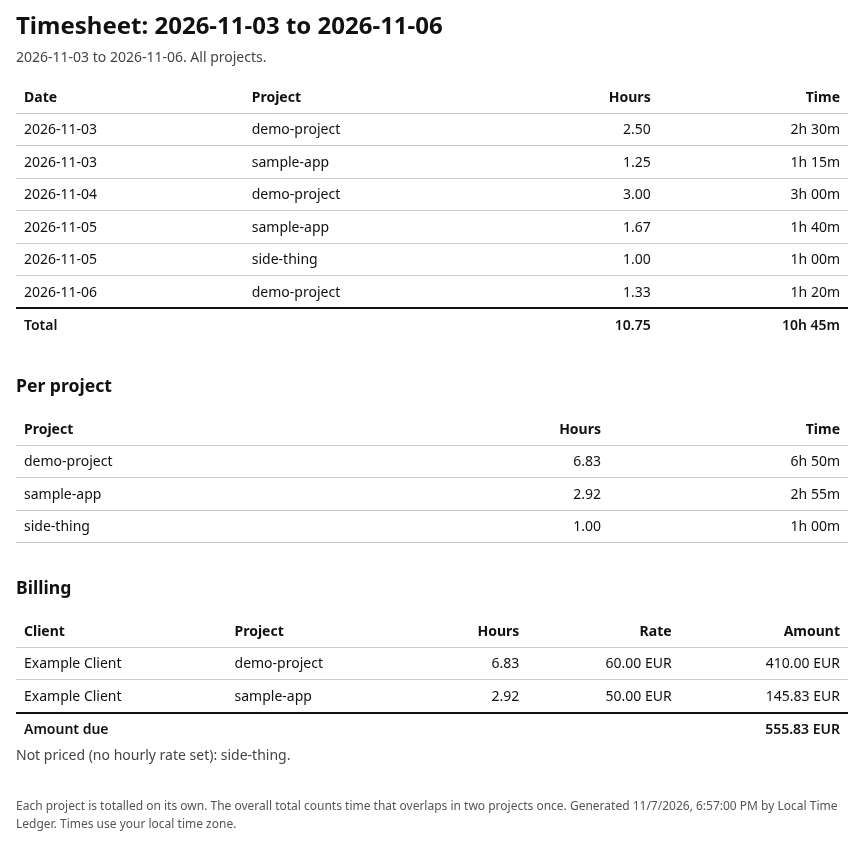
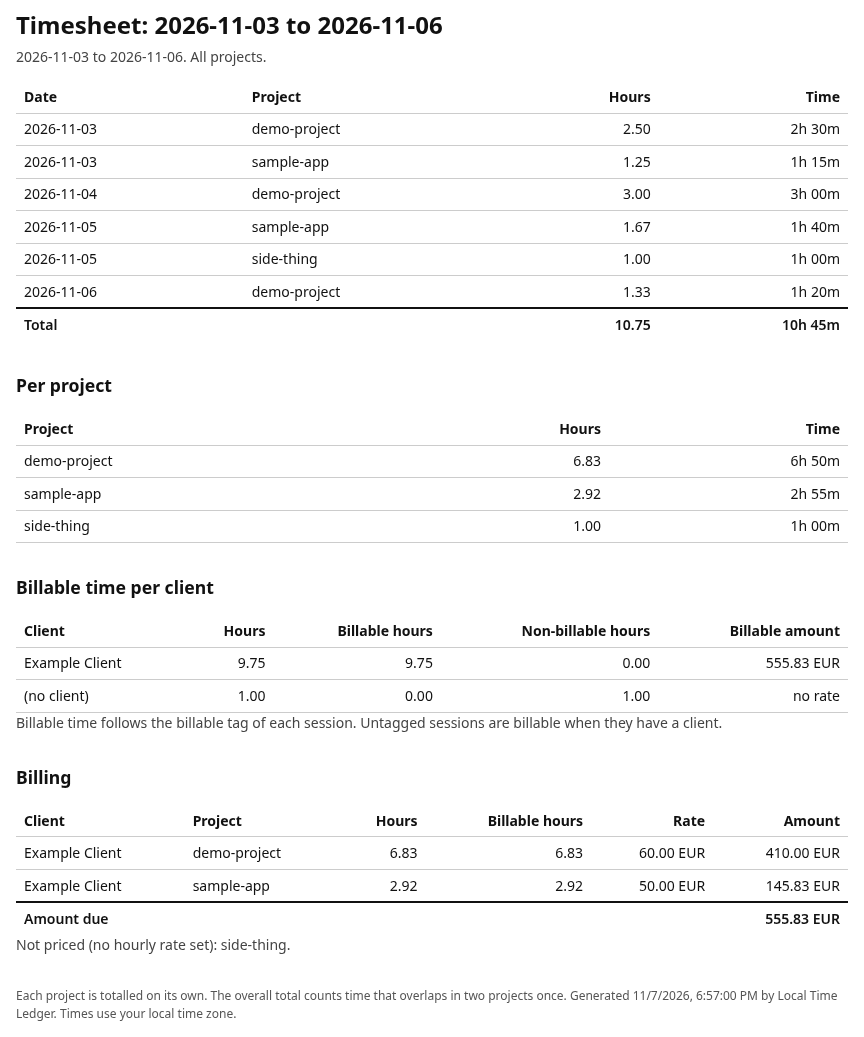
Release 0.4.0: session editor, billable tags, changelog
Bump the version and changelog for the manual session editor and billable tags work, and refresh the timesheet screenshot so the Billable hours column is visible.

diff --git a/CHANGELOG.md b/CHANGELOG.md
@@ -1,6 +1,6 @@
 # Changelog
 
-## Unreleased
+## 0.4.0 (2026-11-16)
 
 - Pro: manual session editor. `Edit Sessions (Pro)` lets you pick a day and a session, then correct its start or end, edit a note and a client label, split it in two, merge it with the previous or next session of the same project, or delete it. Times that end before they start, sessions under one minute, sessions in the future and overlaps with another session of the same project are refused with a message.
 - Pro: `Undo Last Session Edit (Pro)` takes back the most recent edits, one at a time (the last 50 are kept in a local journal file next to your ledger).
@@ -11,6 +11,7 @@
 - New setting `localTimeLedger.billableDefault` (`withClient`, `always` or `never`, default `withClient`) for sessions without a billable tag. With the default, time in projects that have an hourly rate stays billable, so existing exports keep the same amounts.
 - Ledger lines can carry an optional `billable` value (true or false). Lines without it, including every line written by earlier versions, keep working.
 - Free features are unchanged.
+- The timesheet export screenshot now shows billable hours and billable time per client.
 
 ## 0.3.0 (2026-11-08)
 
